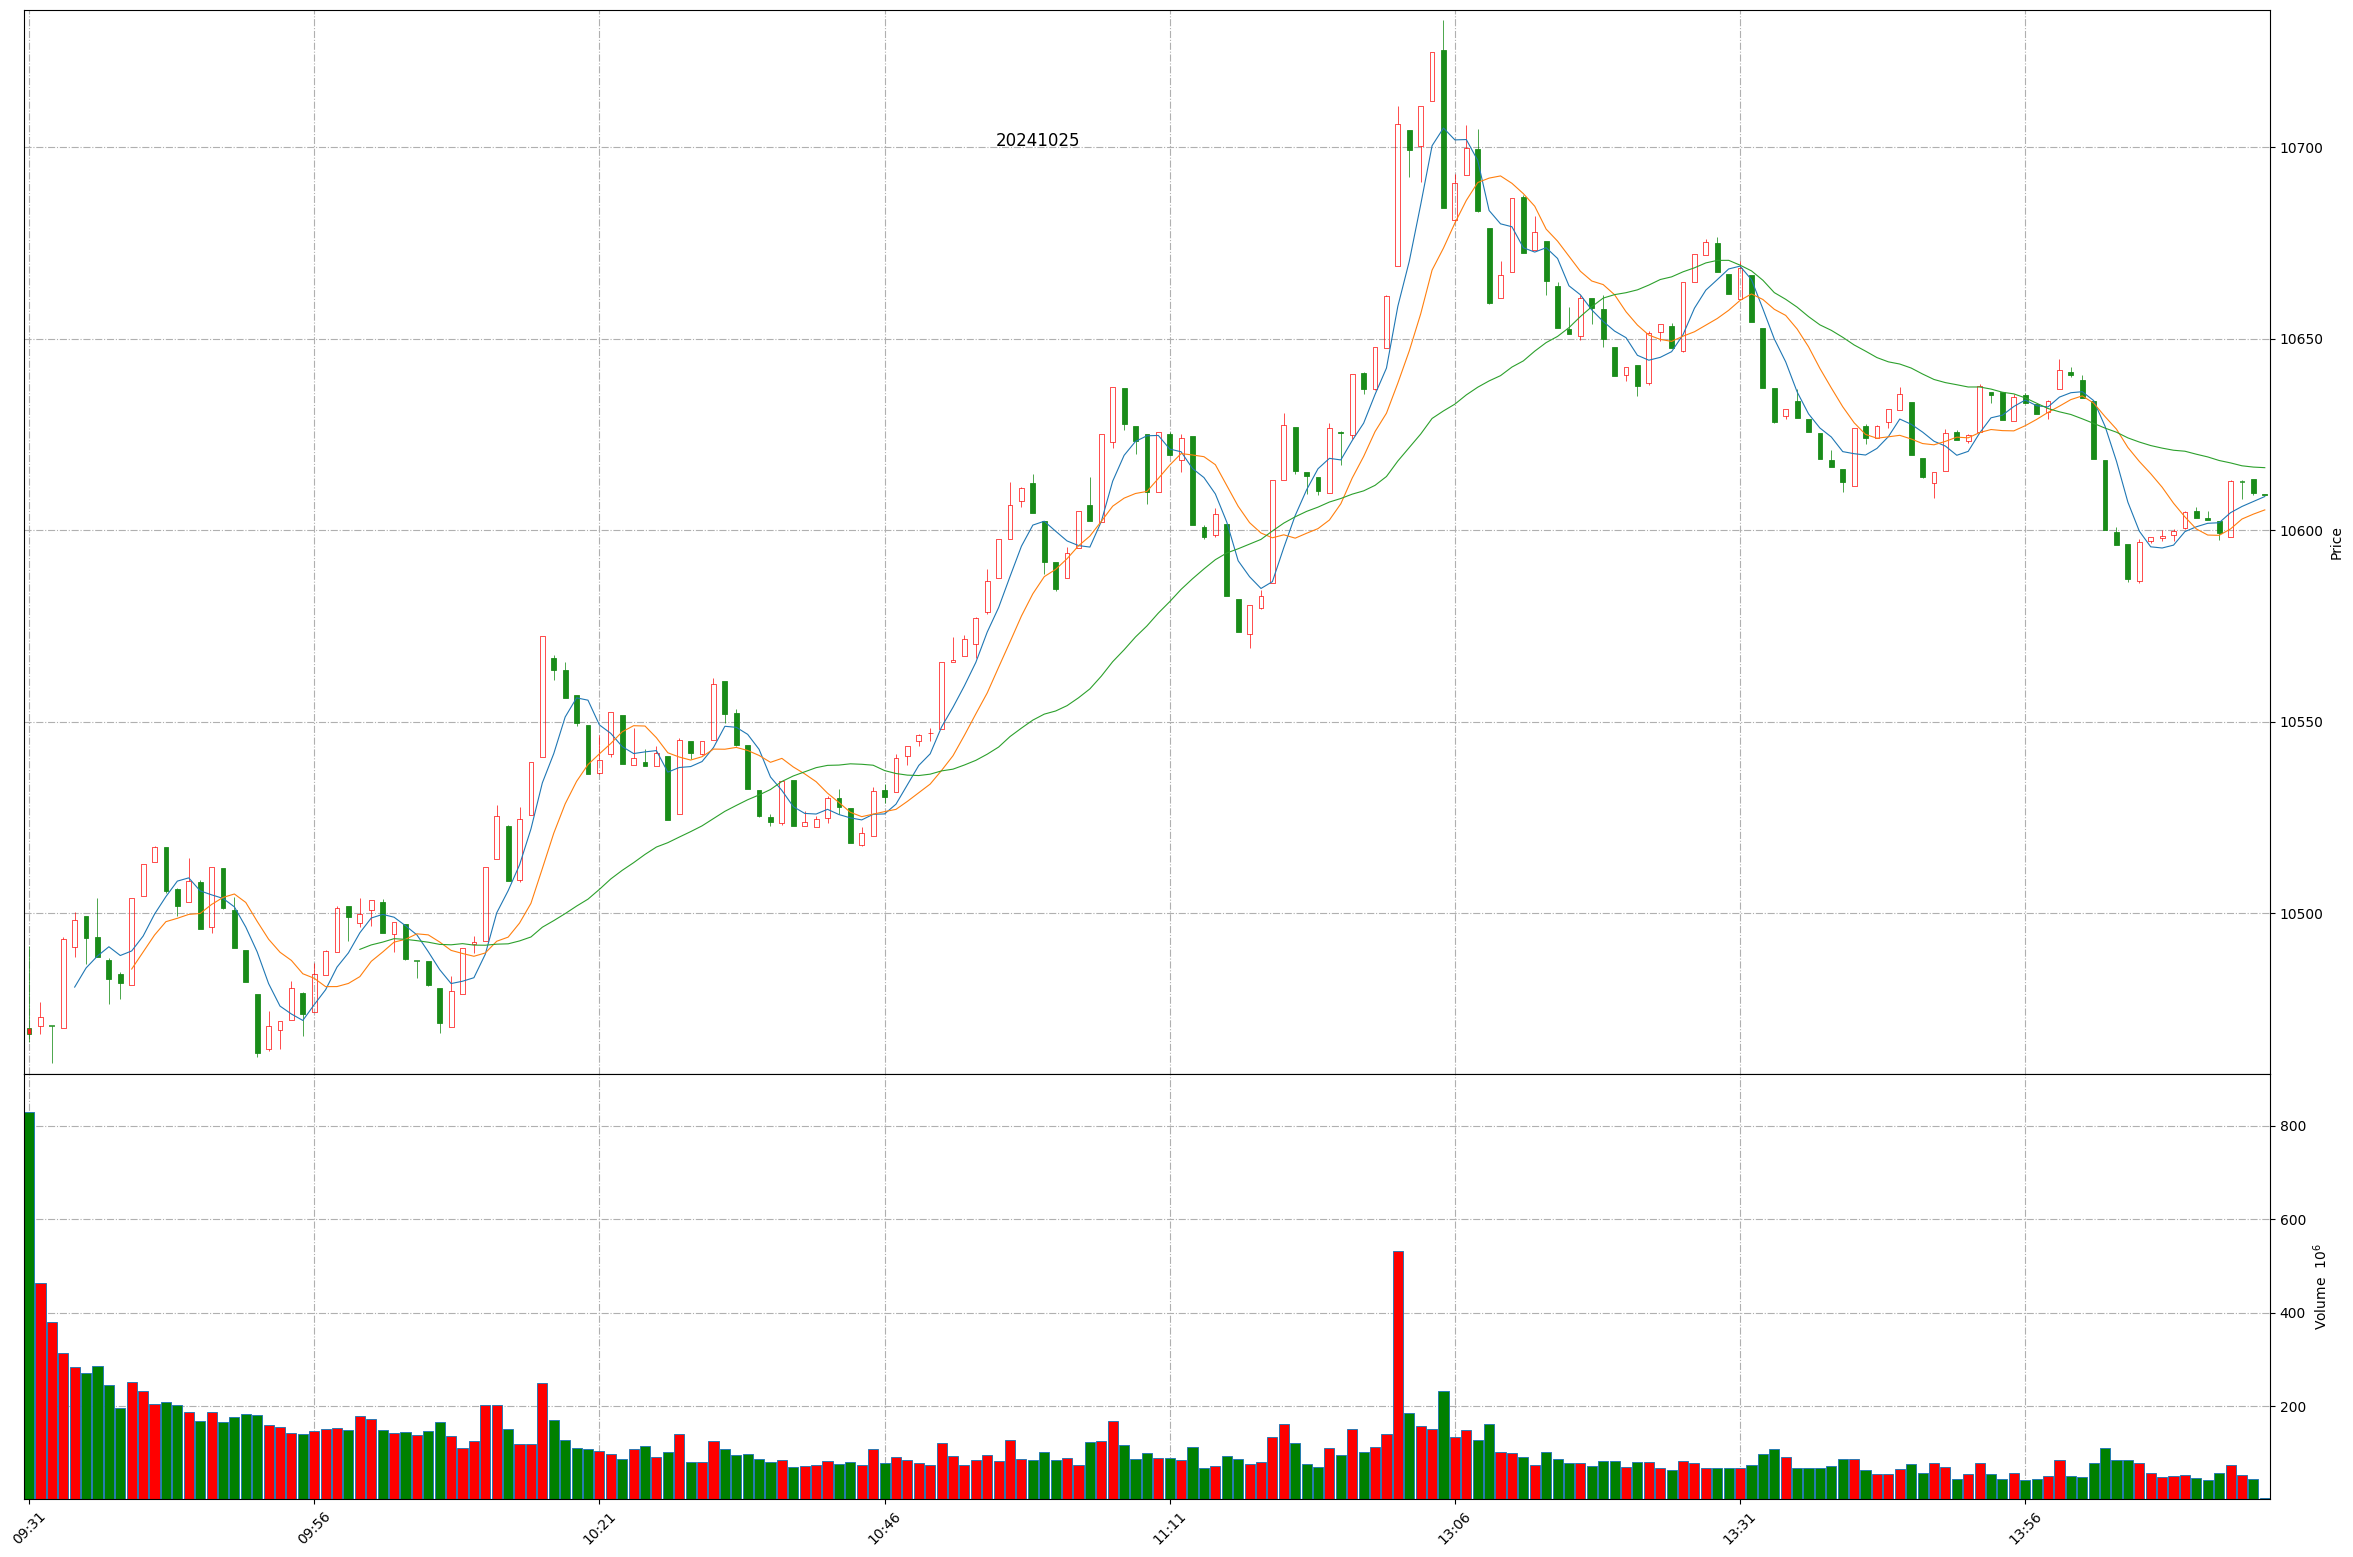
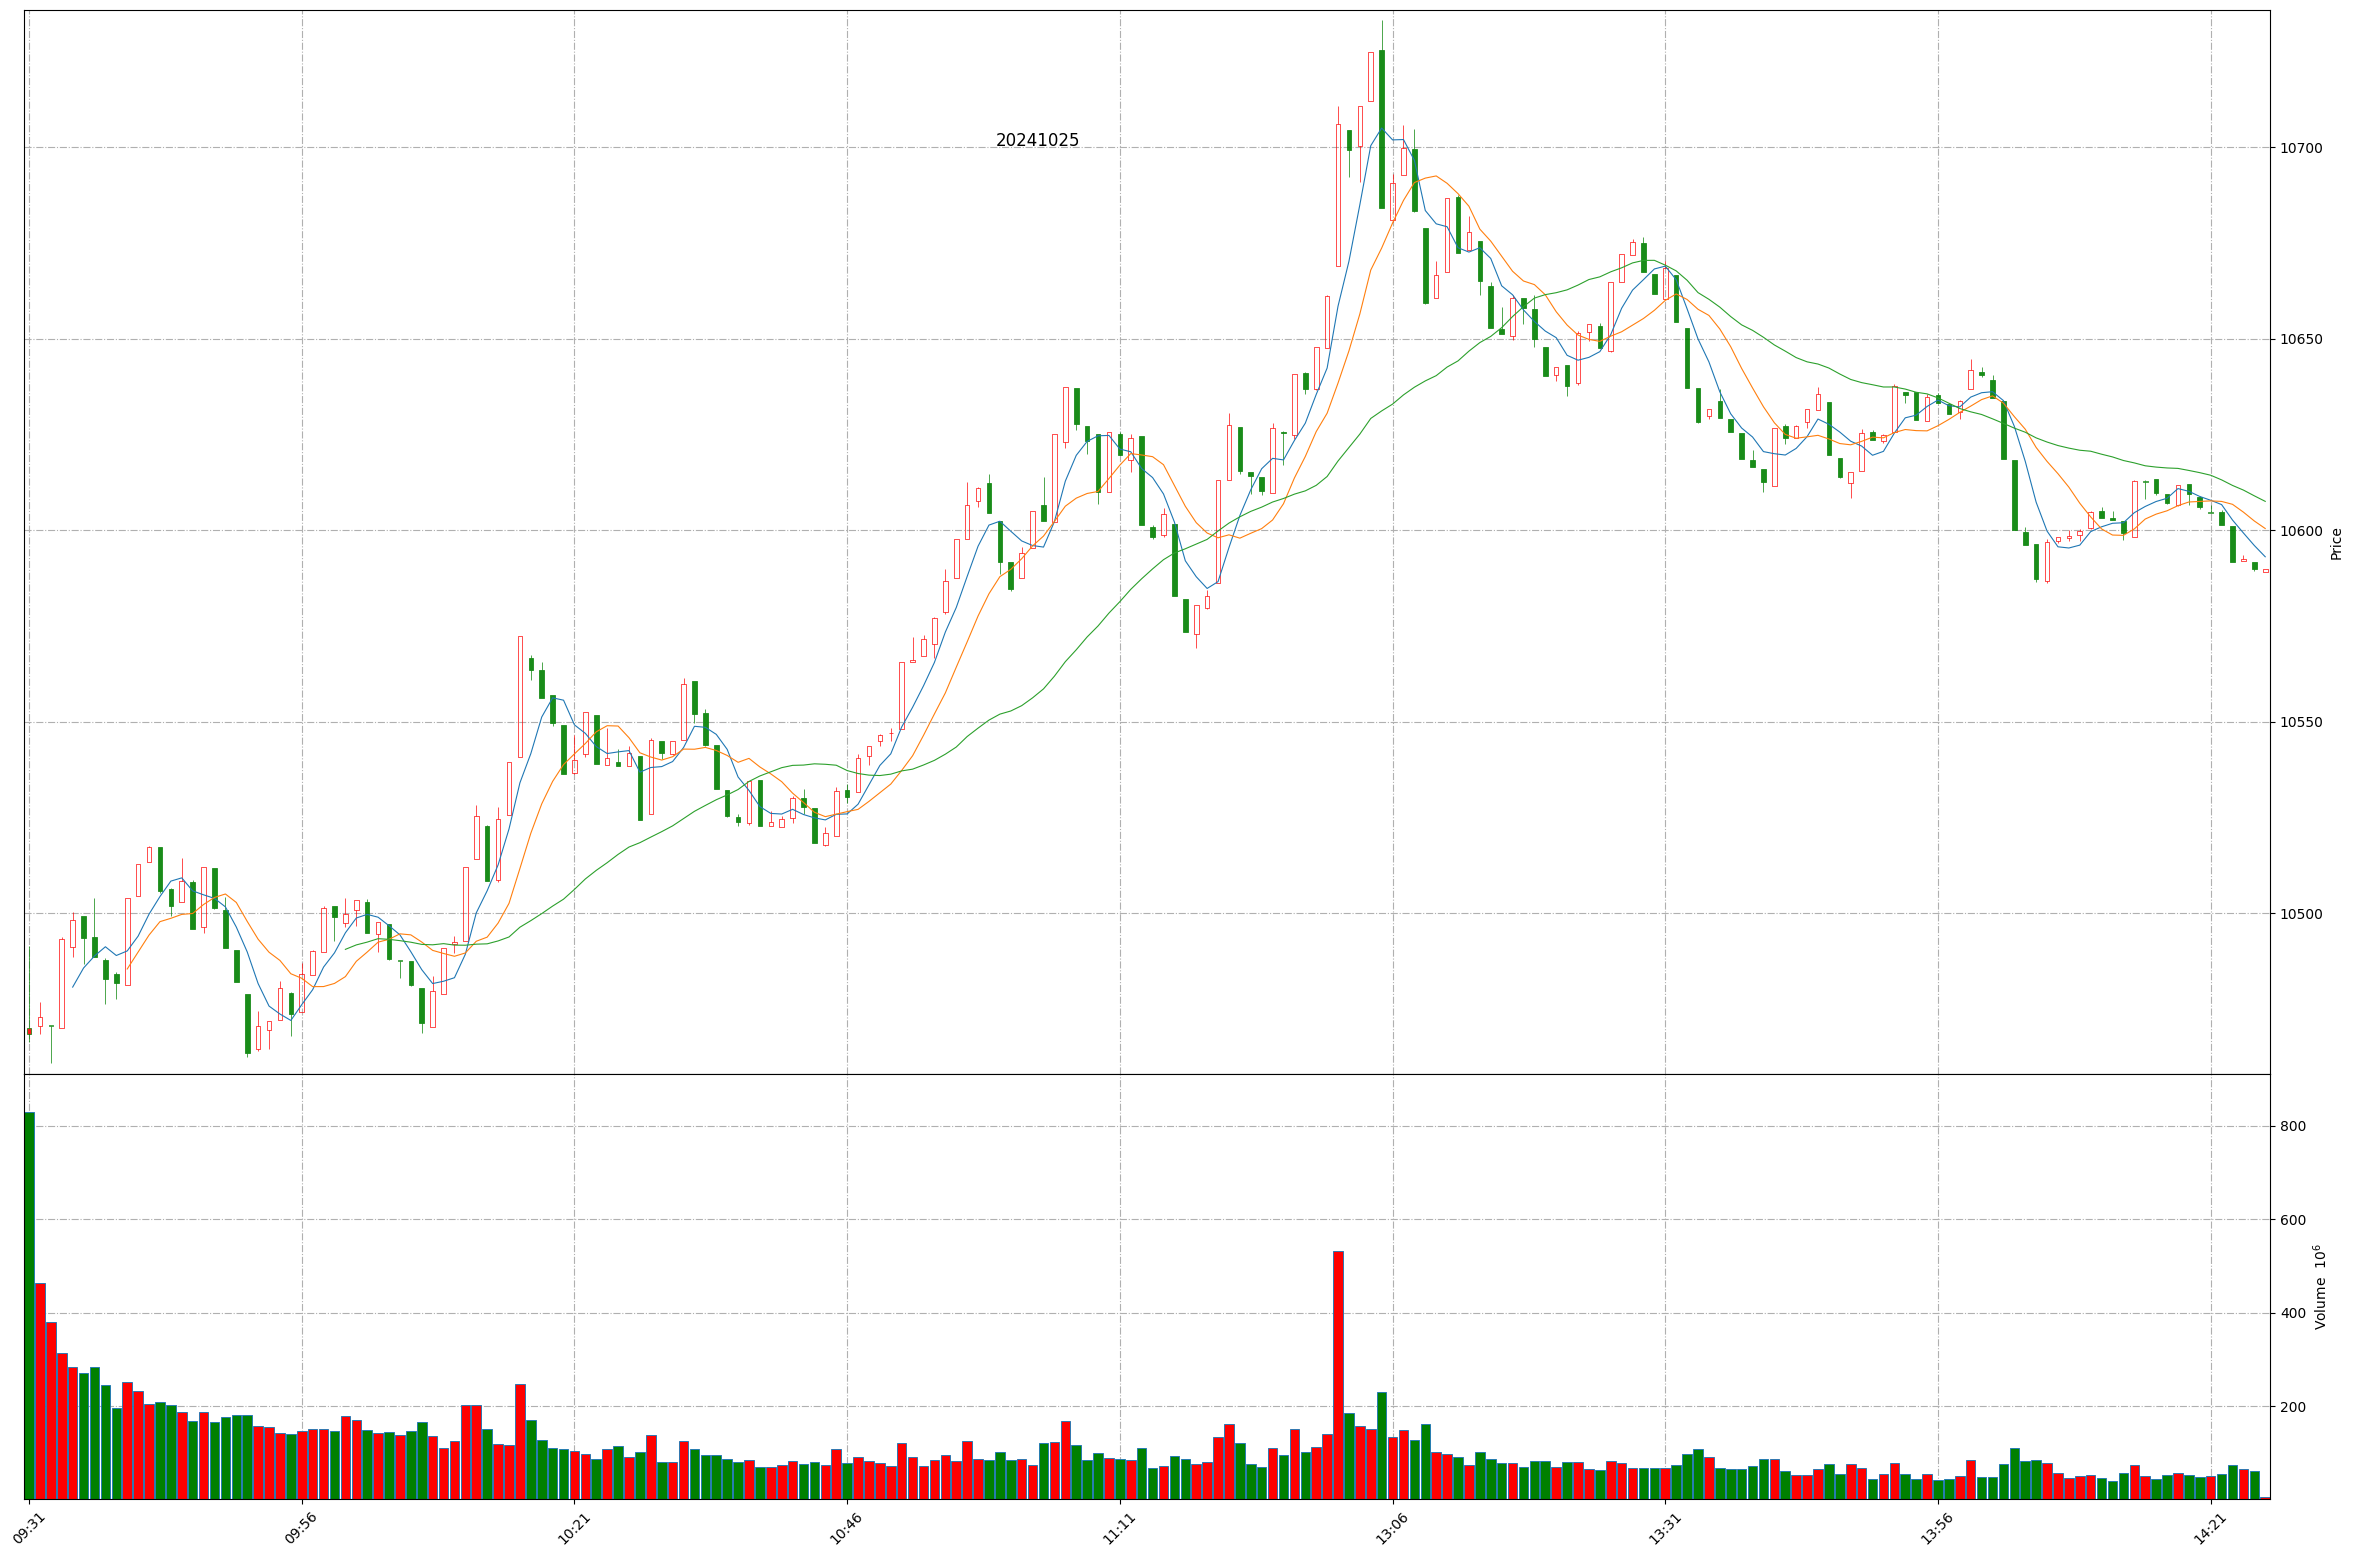
Github action update at 2024-10-25 14:25:17.

diff --git a/README.md b/README.md
@@ -1,11 +1,11 @@
 
 # Daily-A-share-market-quotes 每日 A 股指数（5min 更新）- 20241025
 
-### 上证指数 20241025 14:16
+### 上证指数 20241025 14:25
 ![](./fig/2024/10/20241025-sh000001.png)
 
-### 深证成指 20241025 14:16
+### 深证成指 20241025 14:25
 ![](./fig/2024/10/20241025-sz399001.png)
 
-### 北证50 20241025 14:16
+### 北证50 20241025 14:25
 ![](./fig/2024/10/20241025-bj899050.png)
